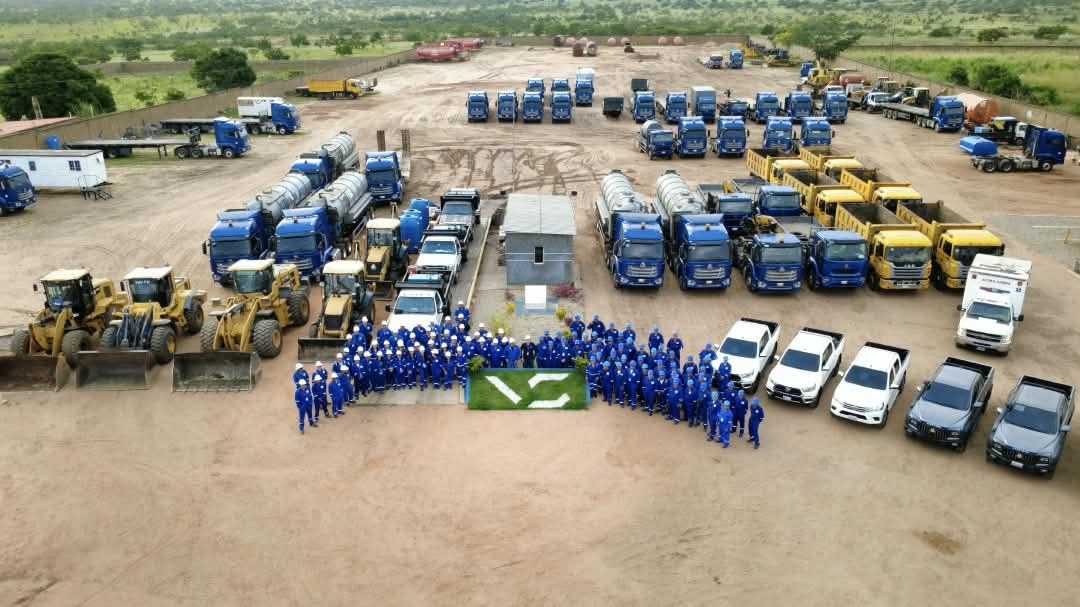
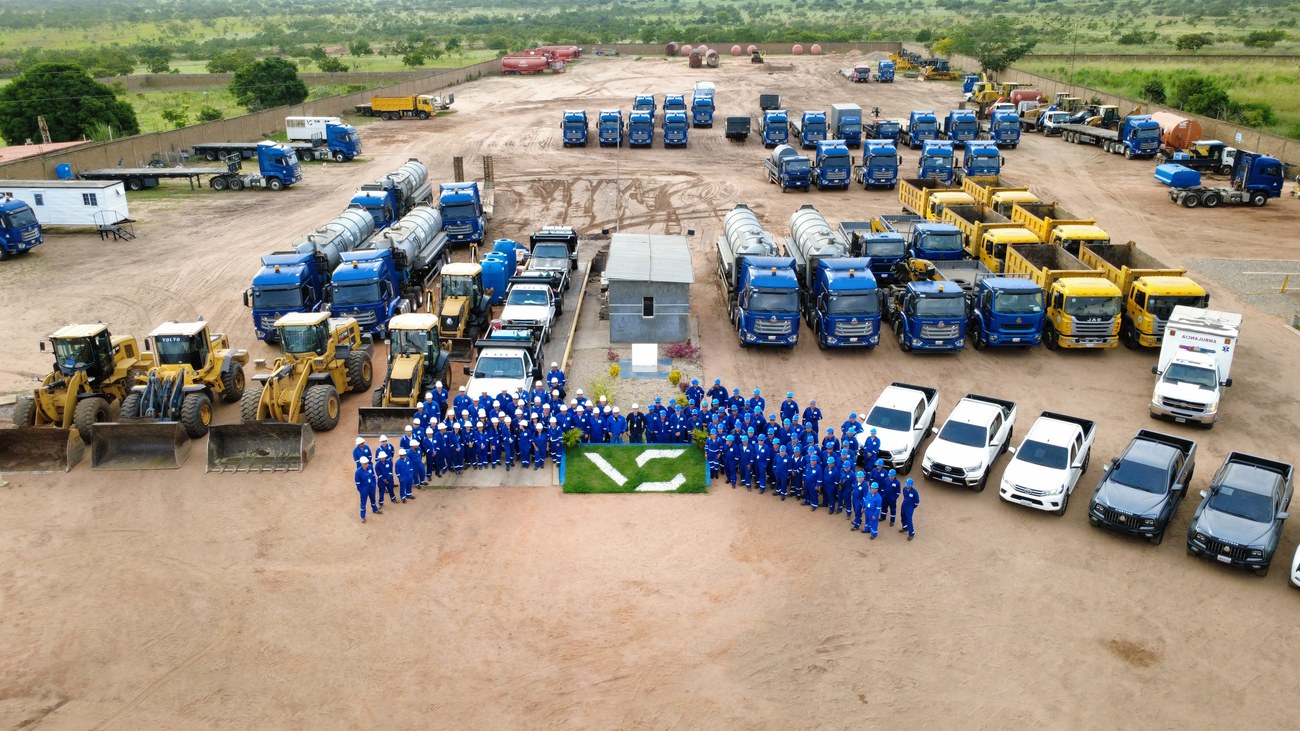
Las fichas de proyecto se leen de arriba abajo y a todo el ancho
El usuario vio la ficha partida en dos columnas "horrible" y pidio el ano, el
titulo y el subtitulo DEBAJO de la foto, cruzando la hoja. Ahora es asi: la
foto de la obra arriba, y bajo ella el ano y el estado, el titulo, el
subtitulo, el parrafo y la caja del cliente, cada cosa a los 665 px de la
pagina. Es la misma lectura de la ficha que va sola -Curataquiche-; lo unico
que cambia entre las dos es el tamano de las piezas.

La foto de la obra pasa de 360 x 225 a 665 x 167: un 37% mas de superficie y
de canto a canto. Y el parrafo se lee en 665 px en vez de en una columna de
285, o sea la mitad de renglones.

SIN las dos miniaturas, y no porque sobren: es que no caben. La foto a todo el
ancho, el texto y el cliente ya suman 418 de los 432 px de la ficha, y una
fila mas de fotos obligaria a achicar la de la obra a la mitad, que es lo
contrario de lo pedido. Se quitan con :not(:only-child), asi que la ficha que
va sola sigue con sus cuatro.

El alto de la foto va FIJO y calculado sobre el texto mas largo -el del
Diluenducto, 174 px-, no en 1fr: dejandolo crecer, cada foto medaria lo que le
dejara SU texto y las dos fichas de una misma hoja saldrian con la foto de
distinto tamano. Fijo, las dieciocho son iguales y la caja del cliente cierra
a la misma linea en las dos.

A 665 x 167 la foto es casi 4 a 1, no la 2,957 de la panoramica: a esa forma
665 de ancho piden 225 de alto y solo hay 167. Es la misma franja apaisada de
[…]

diff --git a/vertical.css b/vertical.css
@@ -178,22 +178,15 @@
 /* Las piezas de la ficha, ENCAJADAS en los 432 px que le tocan a cada una y en
    los 665 de ancho que dejan los margenes.
 
-   La ficha deja de ser una COLUMNA y pasa a ser una REJILLA de dos: las fotos a
-   la izquierda y, a su derecha, lo que identifica la obra -ano y estado,
-   titulo, subtitulo y el parrafo-. Con todo apilado, las fotos ocupaban 340 px
-   de los 665 y el resto de su banda quedaba en blanco; ahora ese hueco se lo
-   lleva el texto, que gana renglones en vez de perderlos. El recuadro de
-   cliente cruza las dos columnas al pie, que es donde cierra la ficha.
-
-   No hace falta tocar el marcado: las siete piezas se colocan por su fila y su
-   columna. Las fotos ABARCAN dos filas cada una -la grande las del ano y el
-   titulo, las miniaturas las del subtitulo y el parrafo-, asi que se apoyan
-   arriba de su hueco y el sobrante de la ficha cae en la fila del parrafo.
-
-   La FORMA de las fotos es propia de esta hoja -1,6 a 1 las tres- y no la de
-   la panoramica; el porque esta en la nota de .hero, mas abajo:
-       foto grande  360 x 225  = 1,60       (la panoramica: 2,958)
-       miniaturas   175 x 109  = 1,61       (la panoramica: 1,944)
+   El REPARTO de esos 432, que es de donde salen todas las cifras de aqui
+   abajo:
+       foto de la obra    167   (665 x 167, ver la nota de .hero)
+       bloque de texto    174   (el peor de los diecinueve, el del
+                                 Diluenducto: titulo de dos renglones y el
+                                 parrafo mas largo)
+       caja del cliente    77   (65 de alto y 12 de margen)
+       ---------------------------
+                          418   de 432, o sea 14 px de respiro
 
    Los cuerpos son los que pidio el usuario, punto y medio por encima de los que
    entraban: ano 13,5, titulo 22,5, subtitulo 14, parrafo 12,5, rotulo CLIENTE
@@ -203,50 +196,58 @@
    Una regla por pieza -su sitio y su cuerpo juntos- y todas acotadas a
    .l-proyectos: asi ninguna alcanza a la lamina del proyecto destacado, que
    comparte los nombres de clase y no sale en esta hoja. */
-/* La ultima fila -la caja del cliente- va a auto y las cuatro del texto se
-   reparten lo demas, con la del parrafo en 1fr. Como la ficha mide 432 px
-   fijos, esas cuatro filas suman SIEMPRE 355, tenga el texto lo que tenga:
-   es lo que sostiene la columna de fotos, que va anclada a ellas. */
+/* La ficha se lee DE ARRIBA ABAJO y a todo el ancho de la hoja: la foto de la
+   obra arriba, y debajo el ano y el estado, el titulo, el subtitulo, el
+   parrafo y la caja del cliente, cada cosa cruzando los 665 px. Lo pidio asi
+   el usuario el 2026-09-07 -"coloca todo esto debajo de la foto grande y que
+   ocupe todo o casi todo el ancho"-. Es la misma lectura de la ficha que va
+   sola (ver .tarjeta:only-child, mas abajo); lo unico que cambia entre las dos
+   es el tamano de las piezas, porque una tiene la hoja entera y estas tienen
+   media.
+   Antes iba partida en dos columnas -fotos a la izquierda, texto a la derecha-
+   y el texto se leia en una columna de 285 px, la mitad de lo que da la hoja.
+   Ninguna pieza necesita ya su sitio en la rejilla: van en el orden del
+   marcado, que es ese, y de colocarlas se encarga una sola columna. */
 .l-proyectos .tarjeta{
   display:grid;
-  grid-template-columns:360px 1fr;
-  grid-template-rows:auto auto auto 1fr auto;
-  column-gap:20px;
+  grid-template-columns:1fr;
+  grid-template-rows:auto auto auto auto 1fr auto;
 }
-/* LA FOTO DE LA OBRA, GRANDE. El usuario la vio chica el 2026-09-07 -"la foto
-   grande debe salir grande"- y aqui es donde crece: 360 x 225 px, casi el
-   doble de alto que los 122 que tenia, con las dos miniaturas debajo a
-   175 x 109 -antes 175 x 90-. Entre las tres se llevan 342 px de los 355 que
-   tiene la ficha, o sea la columna de fotos va del techo al suelo.
-   Para eso las tres CAMBIAN DE FORMA: las tres son ahora 1,6 a 1 -8 a 5-, en
-   vez de la panoramica 2,957 de la grande y el 1,941 de las pequenas. Es la
-   unica manera de que la foto de la obra sea grande en media hoja de pie: a su
-   forma de siempre, 360 px de ancho solo dan 122 de alto, y para que diera 225
-   habria que sacarla a 665, que es la hoja entera. La forma unica ademas hace
-   juego: la grande y las dos pequenas son la misma figura a dos tamanos.
-   Cambiar la forma cambia el TROZO que se ve de cada foto -el encuadre se
-   guarda en tanto por ciento y sigue apuntando al mismo sitio, pero el marco
-   es mas alto, asi que entra menos de los lados-. La hoja de pie tiene su
-   propio encuadre (encuadre_vertical.css), asi que la que no cuadre se recoloca
-   con un doble clic aqui sin tocar la panoramica.
-   Las dos fotos ocupan la MISMA celda -las cuatro filas del texto-, una
-   apoyada arriba y la otra abajo. Asi el alto del texto no las empuja ni ellas
-   recortan al texto: antes la grande vivia en las filas del ano y el titulo, y
-   al subir a 225 px se comia el sitio del parrafo, que salia cortado a media
-   frase. */
-.l-proyectos .tarjeta .hero{grid-area:1 / 1 / 5 / 2;align-self:start;
-  width:360px;height:225px}
-.l-proyectos .tarjeta .minis{grid-area:1 / 1 / 5 / 2;align-self:end;
-  width:360px;padding-top:0;gap:10px}
-.l-proyectos .tarjeta .minis figure{height:109px}
-.l-proyectos .tarjeta .insignias{grid-area:1 / 2;margin:0 0 8px}
+.l-proyectos .tarjeta > *{grid-area:auto}
+/* LA FOTO DE LA OBRA, a los 665 px de la hoja. Su alto es lo que sobra: la
+   ficha mide 432, la caja del cliente con su margen se lleva 77 y el bloque de
+   texto 174 en el peor caso -el del Diluenducto, que es el de titulo de dos
+   renglones y parrafo largo-, asi que quedan 167 para la foto. Son 111.055 px
+   cuadrados contra los 81.000 que tenia a 360 x 225: un 37% mas de foto,
+   ademas de cruzar la pagina de canto a canto.
+   El alto va FIJO y calculado sobre el peor texto, no en 1fr: con 1fr cada
+   foto medaria lo que le dejara SU texto -167, 188 o 209- y las dos fichas de
+   una misma hoja saldrian con la foto de distinto tamano, que es lo que se ve
+   mal. Fijo, las diecinueve son iguales. Si algun dia se alarga un texto de
+   contenido.py, revisar.py canta el TEXTO CORTADO y hay que bajar este numero.
+   La foto queda a 665 x 167, casi 4 a 1, y no en la panoramica 2,957 de
+   siempre: a esa forma, 665 px de ancho piden 225 de alto y solo hay 167. Es
+   la misma franja apaisada de las bandas de esta hoja -la de Portafolio va a
+   816 x 165-, asi que no desentona. Al ser mas apaisada que el marco anterior
+   se ve MENOS de arriba y abajo de cada foto; la hoja de pie tiene su propio
+   encuadre (encuadre_vertical.css), asi que la que no cuadre se recoloca con un
+   doble clic aqui sin tocar la panoramica. */
+.l-proyectos .tarjeta .hero{width:auto;height:167px}
+/* SIN las dos miniaturas. No es que sobren: es que no caben. Con la foto de la
+   obra a todo el ancho y el texto debajo, la ficha ya esta llena -167 + 174 +
+   77 son los 418 de los 432 que hay-, y meter una fila mas de fotos obligaria
+   a achicar la de la obra a la mitad, que es justo lo que el usuario no
+   quiere. Se quitan aqui y no en generar.py porque la ficha que va SOLA si las
+   lleva -cuatro, ver mas abajo-: es el mismo marcado para las dos.
+   :not(:only-child) es lo que separa los dos casos. */
+.l-proyectos .tarjeta:not(:only-child) .minis{display:none}
+.l-proyectos .tarjeta .insignias{margin:14px 0 6px}
 .l-proyectos .tarjeta .insignias .anio{font-size:14.5px}
-.l-proyectos .tarjeta h3{grid-area:2 / 2;font-size:23.5px}
-.l-proyectos .tarjeta .sub{grid-area:3 / 2;
-  font-size:15px;margin-top:8px;padding-bottom:6px}
-.l-proyectos .tarjeta .desc{grid-area:4 / 2;margin-top:8px;
+.l-proyectos .tarjeta h3{font-size:23.5px}
+.l-proyectos .tarjeta .sub{font-size:15px;margin-top:6px;padding-bottom:6px}
+.l-proyectos .tarjeta .desc{margin-top:10px;
   font-size:13.5px;line-height:1.55}
-.l-proyectos .tarjeta .caja-cliente{grid-area:5 / 1 / 6 / -1;
+.l-proyectos .tarjeta .caja-cliente{
   margin-top:12px;height:auto;padding:13px 20px}
 .l-proyectos .tarjeta .caja-cliente .rot{font-size:13px}
 .l-proyectos .tarjeta .caja-cliente b{font-size:18px}
@@ -257,25 +258,24 @@
    no cabe. Con el reparto de arriba salia una ficha del tamano de media hoja
    flotando en el centro, con un palmo de blanco arriba y otro abajo; el
    usuario pidio el 2026-09-06 que ocupara la pagina entera.
-   Sola, la ficha deja de partirse en dos columnas y se lee de arriba abajo: la
-   foto grande a todo el ancho, debajo lo que identifica la obra, luego las dos
-   miniaturas -tambien al ancho entero- y el recuadro del cliente al pie. Es el
-   orden en que ya vienen en el marcado, asi que basta con soltar las piezas de
-   la rejilla de dos (grid-area:auto) y dejarlas colocarse solas.
-   La PROPORCION de las fotos no se toca, que es lo que hace que se vea el
-   trozo encuadrado: 2,957 la grande y 1,941 las miniaturas. A los 665 px de
-   ancho de la hoja salen 225 px de alto la grande y 168 cada miniatura -antes
-   115 y 85 en una columna de 340-, o sea el doble de foto.
-   Los cuerpos suben con la ficha -titulo 23,5 -> 30, subtitulo 15 -> 17,
-   parrafo 13,5 -> 15-: a los de la ficha de media hoja, estirados a 665 px de
-   ancho, el parrafo se quedaba en cuatro renglones perdidos.
-   El alto entero de la hoja se lo da la rejilla, que pone sus filas a 1fr sea
-   una ficha o sean dos; con el alto ya en la mano, el space-between reparte lo
-   que sobre entre las piezas, sin dejarlo todo en un hueco. */
-.l-proyectos .tarjeta:only-child{grid-template-columns:1fr;grid-template-rows:none;
+   Se lee igual que las de media hoja -de arriba abajo y a todo el ancho, esa
+   parte ya viene de la regla de arriba- y lo que cambia es el TAMANO de cada
+   pieza, porque aqui hay 890 px de alto en vez de 432. Todo crece: la foto de
+   la obra a 665 x 225, las miniaturas vuelven -CUATRO, ver mas abajo- y los
+   cuerpos suben -titulo 23,5 -> 30, subtitulo 15 -> 17, parrafo 13,5 -> 15-,
+   que a los de media hoja, estirados a 665 px de ancho, el parrafo se quedaba
+   en cuatro renglones perdidos.
+   La foto de la obra SI conserva aqui su forma de siempre -2,957, la misma que
+   en la panoramica: 665 de ancho piden 225 de alto y los hay-, y las cuatro
+   miniaturas la suya, 1,941. En las fichas de media hoja no se puede, porque
+   alli la foto tiene que caber en 167 px de alto.
+   Las filas van a auto -grid-template-rows:none deshace las seis de la regla
+   de arriba, que son para el reparto apretado de media hoja- y el sobrante de
+   la pagina se reparte entre las piezas con space-between, sin dejarlo todo en
+   un hueco. */
+.l-proyectos .tarjeta:only-child{grid-template-rows:none;
   align-content:space-between}
-.l-proyectos .tarjeta:only-child > *{grid-area:auto}
-.l-proyectos .tarjeta:only-child .hero{width:auto;height:225px}
+.l-proyectos .tarjeta:only-child .hero{height:225px}
 .l-proyectos .tarjeta:only-child .insignias{margin:0}
 .l-proyectos .tarjeta:only-child h3{font-size:30px}
 .l-proyectos .tarjeta:only-child .sub{font-size:17px;margin-top:10px}

diff --git a/encuadre.css b/encuadre.css
@@ -5,7 +5,7 @@ img[data-foto="bombeo_3"]{object-position:50.0% 50.0%;--org:50.0% 50.0%;--zoom:1
 img[data-foto="chuto_1"]{object-position:60.3% 50.8%;--org:60.3% 50.8%;--zoom:1.000}
 img[data-foto="chuto_2"]{object-position:50.0% 50.0%;--org:50.0% 50.0%;--zoom:1.000}
 img[data-foto="chuto_3"]{object-position:50.0% 50.0%;--org:50.0% 50.0%;--zoom:1.000}
-img[data-foto="clientes_equipo"]{object-position:72.6% 70.3%;--org:72.6% 70.3%;--zoom:1.000}
+img[data-foto="clientes_equipo"]{object-position:72.9% 71.6%;--org:72.9% 71.6%;--zoom:1.000}
 img[data-foto="comorsuelo_1"]{object-position:51.4% 30.2%;--org:51.4% 30.2%;--zoom:1.000}
 img[data-foto="comorsuelo_2"]{object-position:49.5% 36.5%;--org:49.5% 36.5%;--zoom:1.000}
 img[data-foto="comorsuelo_3"]{object-position:68.6% 50.0%;--org:68.6% 50.0%;--zoom:1.000}
@@ -28,7 +28,7 @@ img[data-foto="ef016_2"]{object-position:50.0% 50.0%;--org:50.0% 50.0%;--zoom:1.
 img[data-foto="ef016_3"]{object-position:59.9% 48.7%;--org:59.9% 48.7%;--zoom:1.000}
 img[data-foto="empresa_sede"]{object-position:23.6% 100.0%;--org:23.6% 100.0%;--zoom:1.000}
 img[data-foto="empresa_soldadura"]{object-position:49.3% 54.9%;--org:49.3% 54.9%;--zoom:1.000}
-img[data-foto="empresa_tendido"]{object-position:50.6% 0.0%;--org:50.6% 0.0%;--zoom:1.000}
+img[data-foto="empresa_tendido"]{object-position:48.7% 62.0%;--org:48.7% 62.0%;--zoom:1.000}
 img[data-foto="flota_1"]{object-position:81.4% 35.1%;--org:81.4% 35.1%;--zoom:1.000}
 img[data-foto="flota_2"]{object-position:62.6% 38.4%;--org:62.6% 38.4%;--zoom:1.160}
 img[data-foto="flota_3"]{object-position:50.5% 94.4%;--org:50.5% 94.4%;--zoom:1.000}
@@ -39,7 +39,7 @@ img[data-foto="macolla15_1"]{object-position:42.3% 55.2%;--org:42.3% 55.2%;--zoo
 img[data-foto="macolla15_2"]{object-position:33.7% 22.7%;--org:33.7% 22.7%;--zoom:1.000}
 img[data-foto="macolla15_3"]{object-position:9.6% 18.2%;--org:9.6% 18.2%;--zoom:1.000}
 img[data-foto="oficina_caracas"]{object-position:49.8% 49.6%;--org:49.8% 49.6%;--zoom:1.000}
-img[data-foto="oficina_eltigre"]{object-position:53.0% 45.8%;--org:53.0% 45.8%;--zoom:1.000}
+img[data-foto="oficina_eltigre"]{object-position:49.0% 50.4%;--org:49.0% 50.4%;--zoom:1.000}
 img[data-foto="oficina_lecheria"]{object-position:42.1% 36.8%;--org:42.1% 36.8%;--zoom:1.000}
 img[data-foto="oficina_maturin"]{object-position:51.3% 49.1%;--org:51.3% 49.1%;--zoom:1.000}
 img[data-foto="oleo30x14_1"]{object-position:50.0% 50.0%;--org:50.0% 50.0%;--zoom:1.000}
